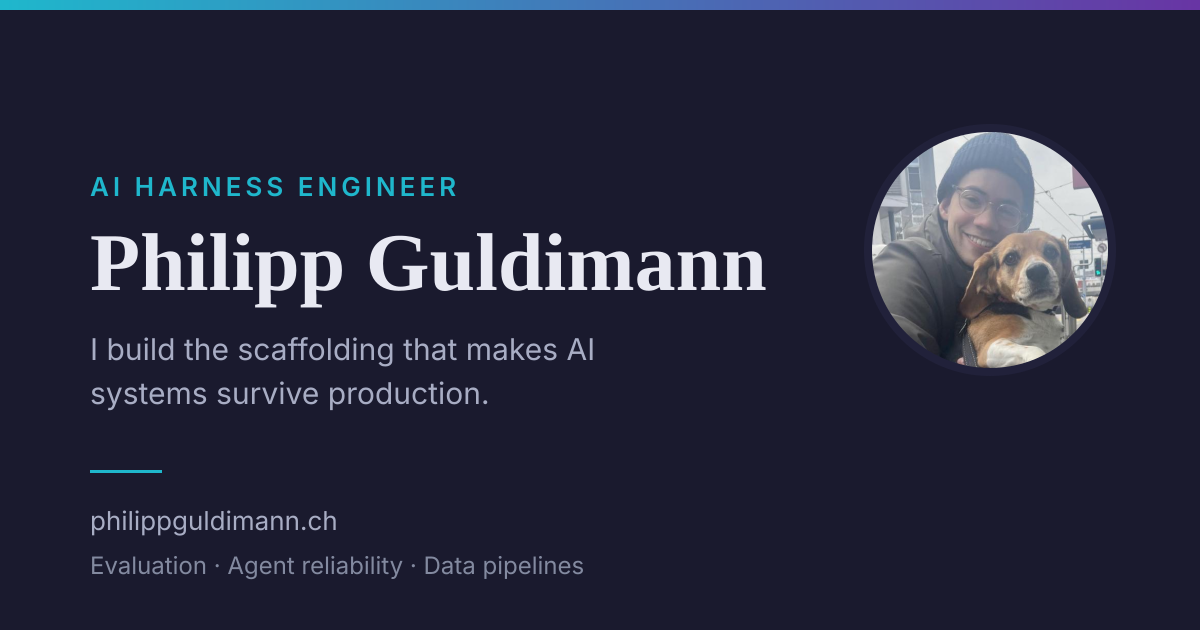
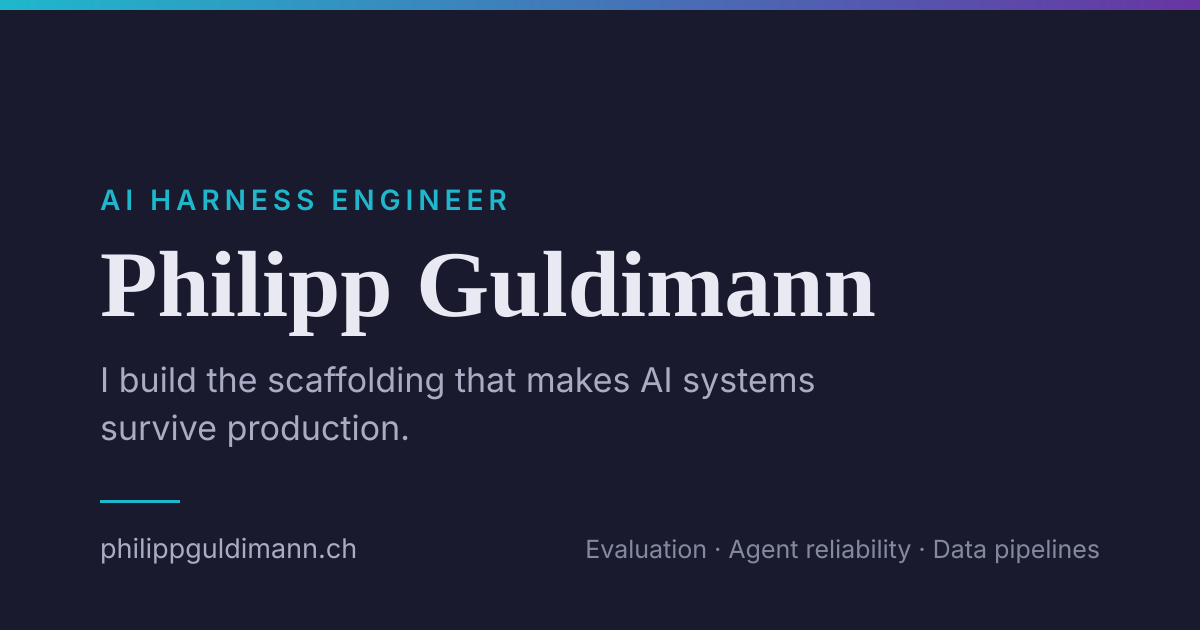
Drop the hero portrait and the social-card headshot
The only headshot on file is a casual outdoor shot, which reads wrong on a
page carrying an "open to roles" signal and on every link preview. Fall back
to a typographic social card until a proper photo exists; headshot_circle.jpeg
stays in assets, unreferenced.

Keep the status pill, and give it justify-self: start — as a direct child of
the .prose grid it would otherwise stretch the full text column.

diff --git a/assets/css/style.scss b/assets/css/style.scss
@@ -461,27 +461,12 @@ body {
 
 /* ------------------------------------------------------- homepage bits   */
 
-.hero {
-  display: flex;
-  align-items: center;
-  gap: 1.5rem;
-  margin-bottom: 1.75rem;
-}
-
-.hero__portrait {
-  flex: none;
-  width: 108px;
-  height: 108px;
-  border-radius: 50%;
-  object-fit: cover;
-  border: 1px solid var(--rule);
-}
-
-.hero__text { min-width: 0; }
-
 /* The dot is decorative; "Open to" carries the meaning in text. */
 .hero__status {
   display: inline-flex;
+  /* Direct child of the .prose grid, so it would otherwise stretch the
+     full text column instead of hugging its label. */
+  justify-self: start;
   align-items: center;
   gap: .45rem;
   font-size: .8125rem;
@@ -512,12 +497,11 @@ body {
 .hero-role {
   font-size: var(--step-1);
   color: var(--ink-muted);
-  margin: 0 0 1.75rem !important;
+  margin: 0 0 .8rem !important;
 }
 
-/* Inside the hero flex row the status pill supplies the trailing gap. */
-.hero__text .hero-name { margin-bottom: .35rem; }
-.hero__text .hero-role { margin-bottom: .8rem !important; }
+/* The status pill sits under the role and supplies the trailing gap. */
+.hero-role + .hero__status { margin-bottom: 2rem !important; }
 
 /* Contact call-to-action */
 .cta {
@@ -667,14 +651,6 @@ body {
     padding-top: 1.75rem;
     margin-bottom: 2.5rem;
   }
-
-  .hero {
-    flex-direction: column;
-    align-items: flex-start;
-    gap: 1.15rem;
-  }
-
-  .hero__portrait { width: 84px; height: 84px; }
 
   .cta { gap: .5rem; }
   .cta a { flex: 1 1 auto; text-align: center; }

diff --git a/index.md b/index.md
@@ -5,14 +5,9 @@ description: AI Harness Engineer — LLM evaluation, agent reliability, and the 
 hero: true
 ---
 
-<div class="hero">
-  <img class="hero__portrait" src="{{ '/assets/img/headshot_circle.jpeg' | relative_url }}" alt="Philipp Guldimann" width="120" height="120" loading="eager">
-  <div class="hero__text">
-    <h1 class="hero-name">Philipp Guldimann</h1>
-    <p class="hero-role">AI Harness Engineer · Zürich, Switzerland</p>
-    <p class="hero__status"><span class="hero__status-dot" aria-hidden="true"></span> Open to AI engineering roles — Zürich or remote</p>
-  </div>
-</div>
+<h1 class="hero-name">Philipp Guldimann</h1>
+<p class="hero-role">AI Harness Engineer · Zürich, Switzerland</p>
+<p class="hero__status"><span class="hero__status-dot" aria-hidden="true"></span> Open to AI engineering roles — Zürich or remote</p>
 
 <p class="lede">I build the scaffolding that makes AI systems survive production — evaluation, agent reliability, and the data pipelines underneath.</p>
 
